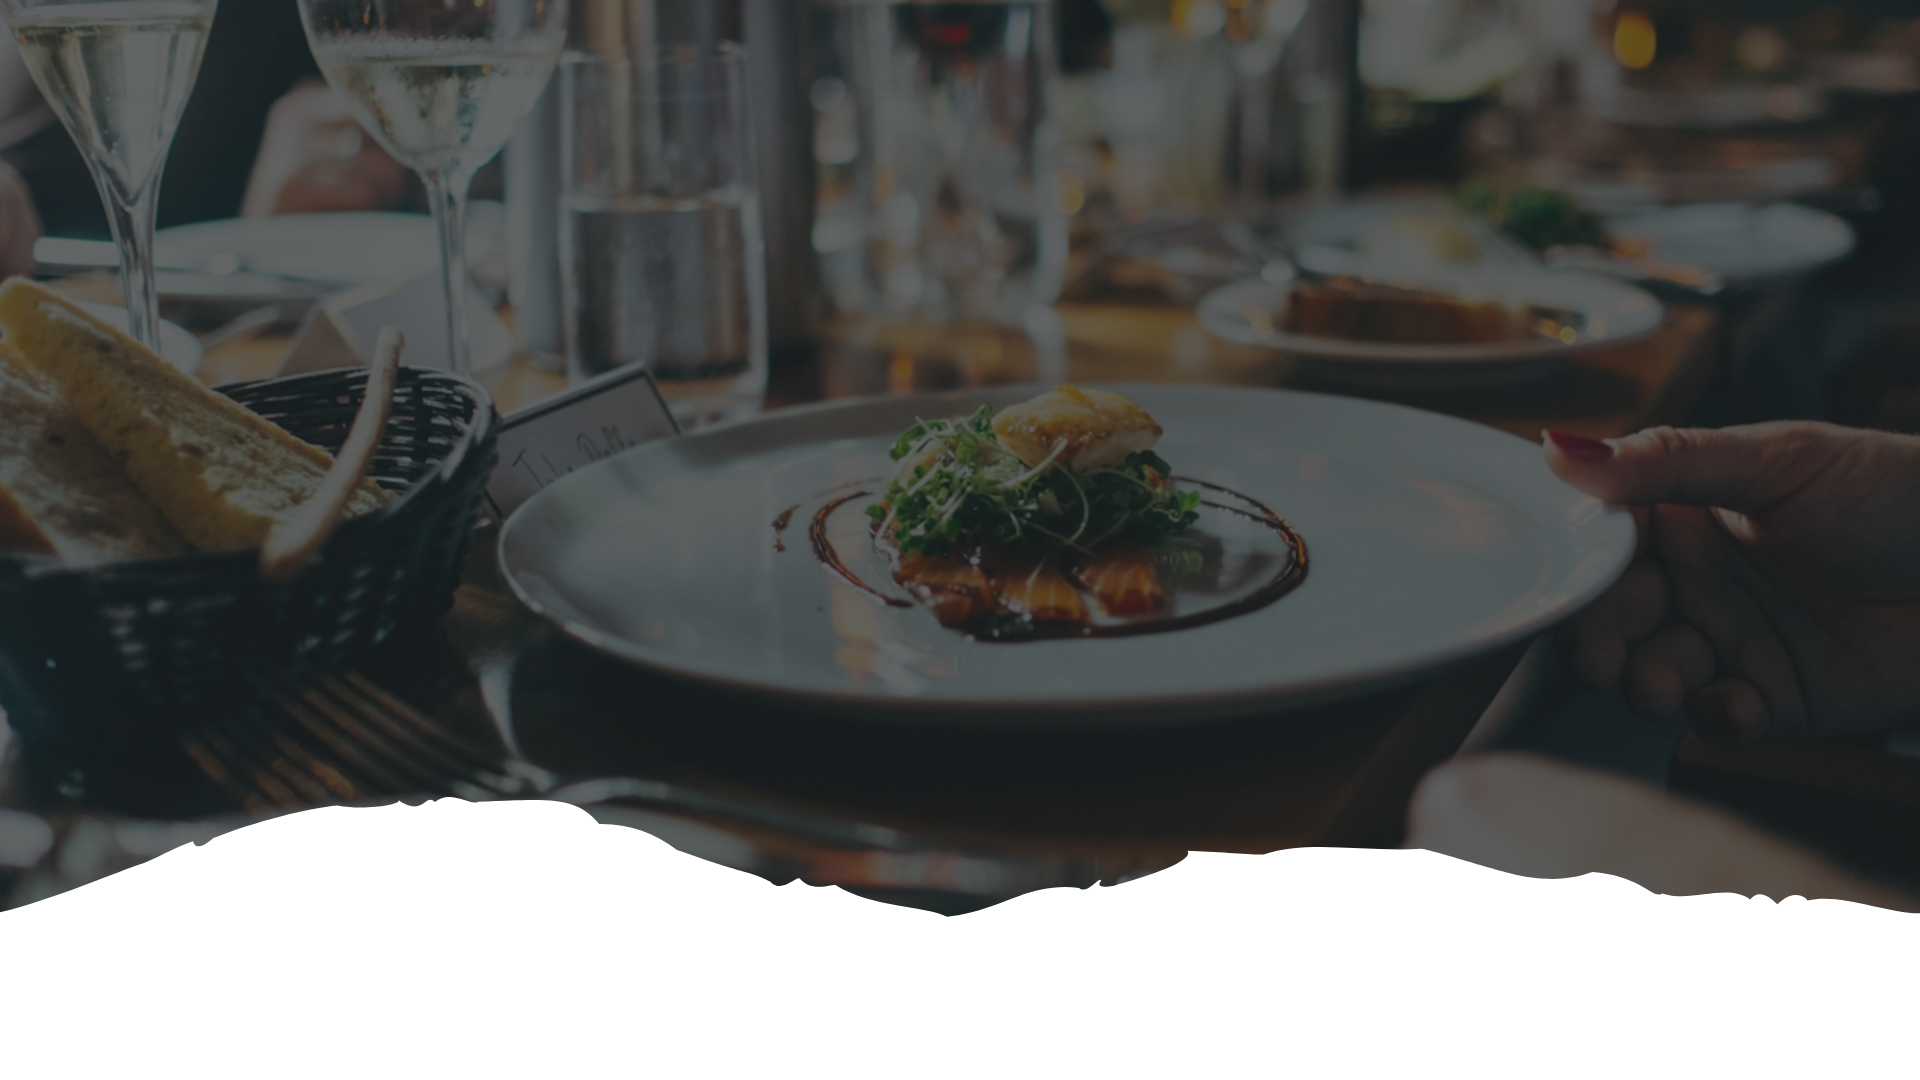
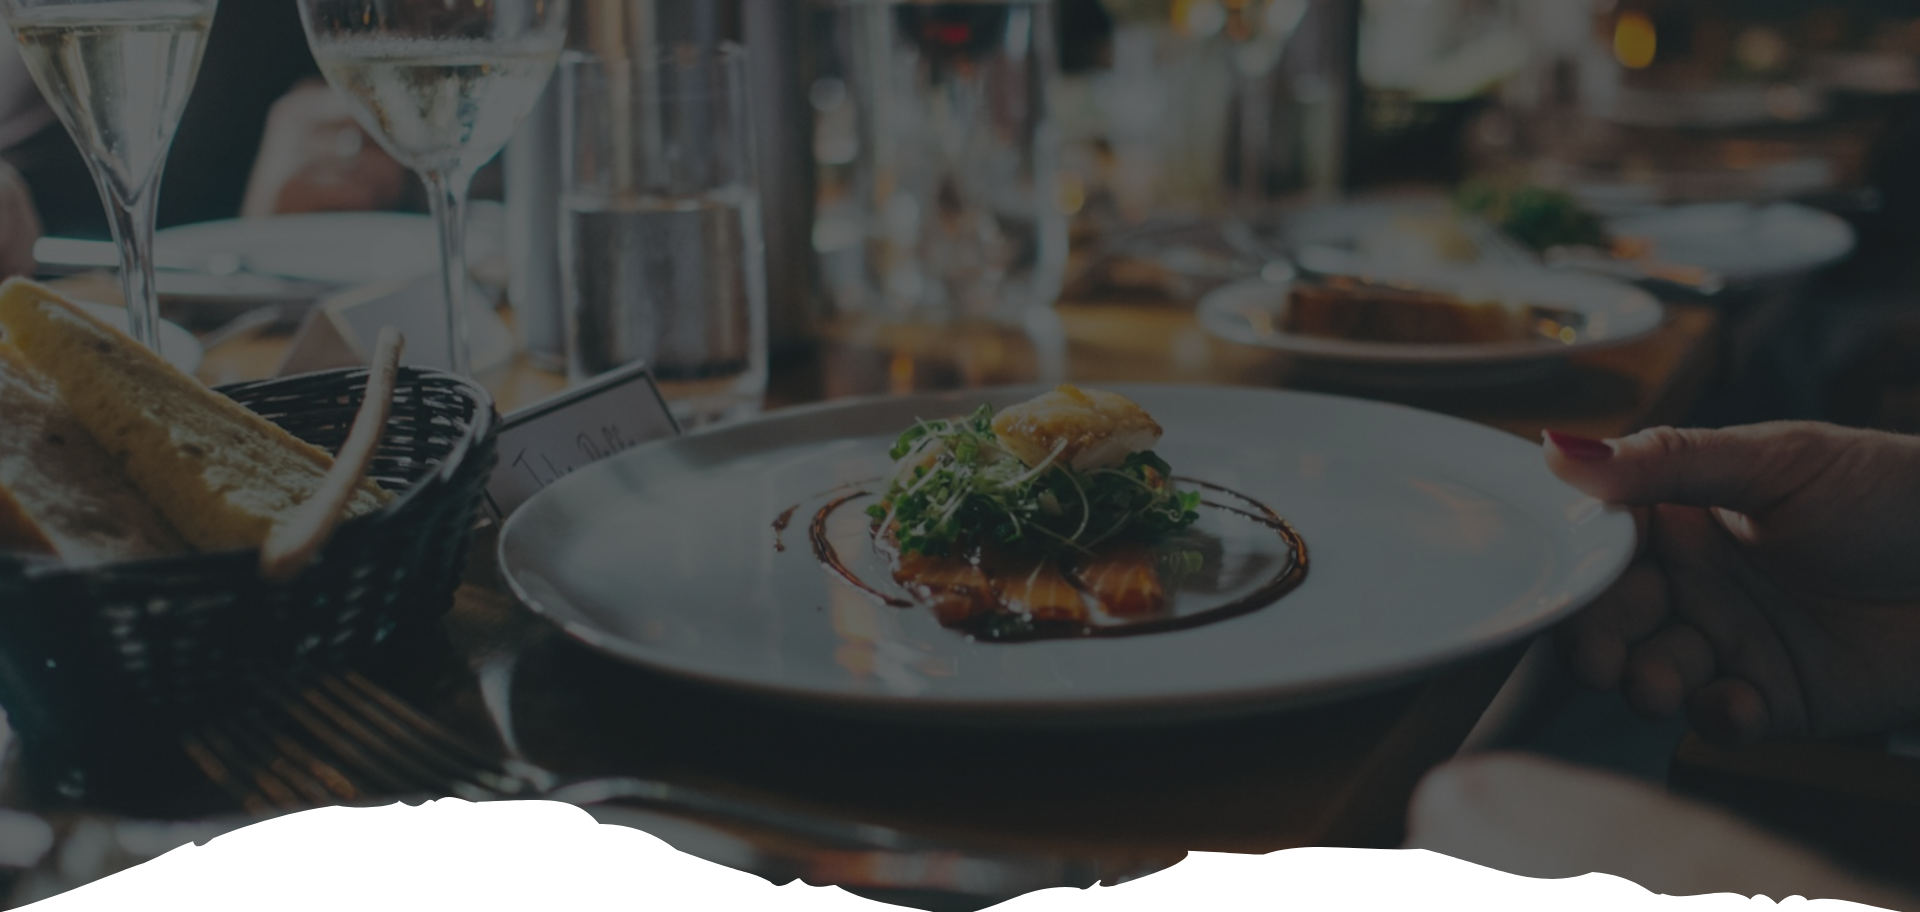
solve issue

diff --git a/src/Pagges/About.jsx b/src/Pagges/About.jsx
@@ -268,7 +268,7 @@ export default function About() {
        <img
            src={bannerImg}
            alt="Menu Banner"
-           className="absolute inset-0 w-full h-[900px] object-cover"
+           className="absolute inset-0 w-full h-[800px] object-cover"
          />
         {/* <div className="absolute inset-0 bg-gradient-to-r from-[#0A0502]/95 via-[#0A0502]/70 to-transparent" /> */}
         {/* <div className="absolute inset-0 bg-gradient-to-t from-[#0A0502] via-transparent to-[#0A0502]/40" /> */}

diff --git a/src/Pagges/Gellary.jsx b/src/Pagges/Gellary.jsx
@@ -185,7 +185,7 @@ const [start, setStart] = useState(false);
    <img
       src={bg}
       alt="Menu Banner"
-      className="absolute inset-0 w-full h-full object-cover"
+      className="absolute inset-0 w-full h-[750px] object-cover"
     />
   {/* <div className="absolute inset-0 bg-gradient-to-br from-[#0A0502]/30 via-[#0A0502]/30 to-[#0A0502]" /> */}
 

diff --git a/src/Pagges/ContactUs.jsx b/src/Pagges/ContactUs.jsx
@@ -158,7 +158,7 @@ export default function ContactUs() {
         <img
                  src={bannerImg}
                  alt="Menu Banner"
-                 className="absolute inset-0 w-full h-[800px] object-cover"
+                 className="absolute inset-0 w-full h-[700px] object-cover"
                />
 
         {/* Corner accents */}

diff --git a/src/Pagges/Menu.jsx b/src/Pagges/Menu.jsx
@@ -188,7 +188,7 @@ function Menu() {
         <img
           src={bannerImg}
           alt="Menu Banner"
-          className="absolute inset-0 w-full h-full object-cover"
+          className="absolute inset-0 w-full h-[700px] object-cover"
         />
 
         {/* Dark Overlay for readability */}

diff --git a/src/Pagges/Franchise.jsx b/src/Pagges/Franchise.jsx
@@ -211,7 +211,7 @@ export default function Franchise() {
   <img
     src={bannerImg}
     alt="Menu Banner"
-    className="absolute inset-0 w-full h-[800px] object-cover"
+    className="absolute inset-0 w-full h-[700px] object-cover"
   />
 
   {/* Dark Overlay (Important for readability) */}
